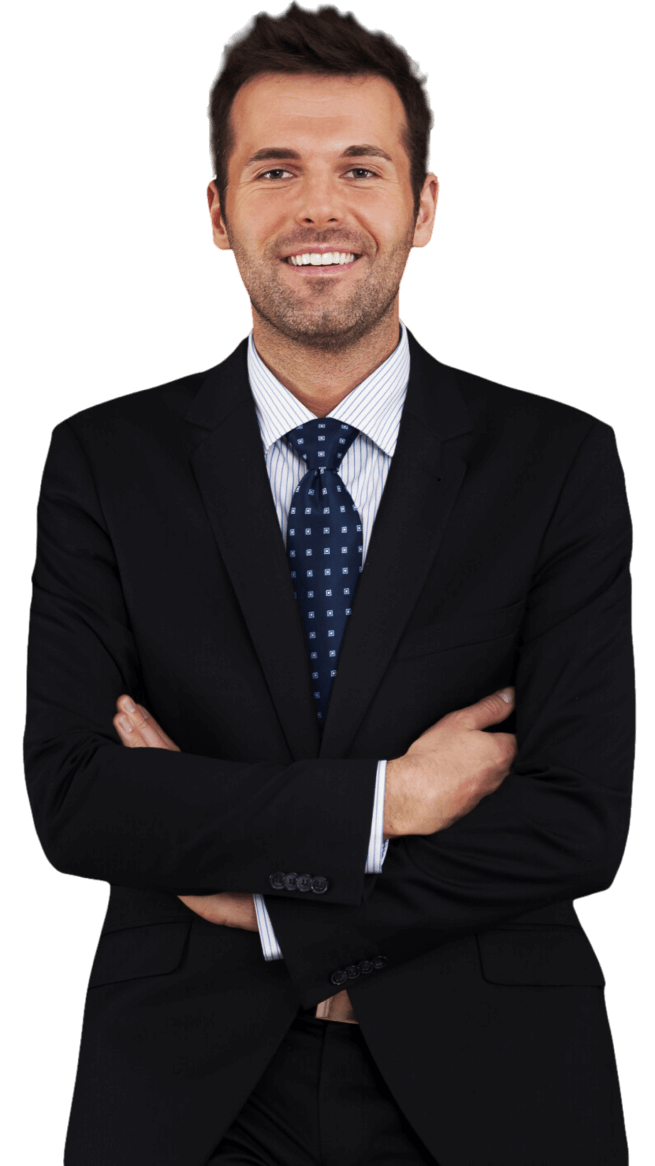
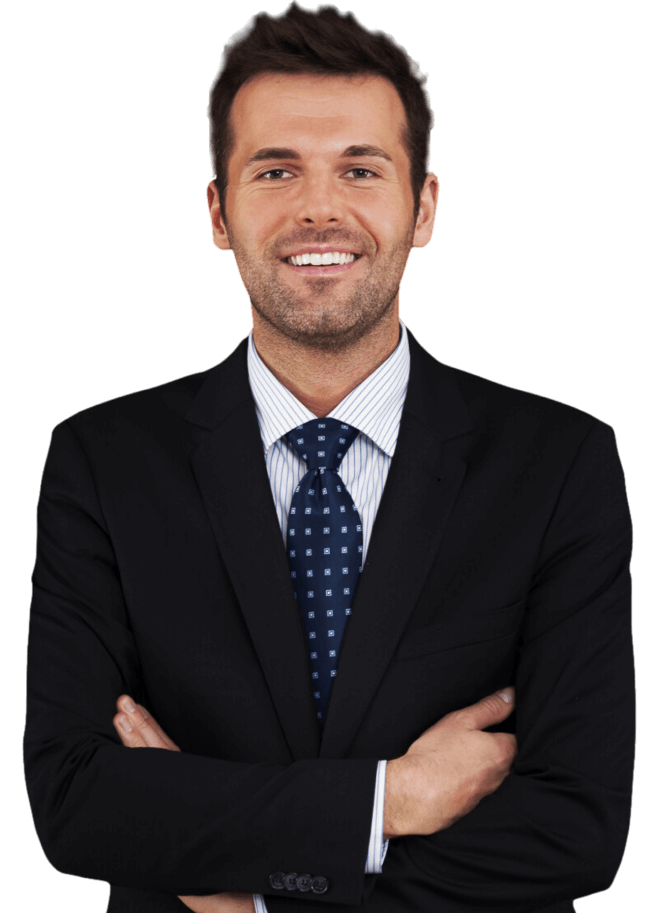
fix: Ajusta secao evite acidentes sem content

diff --git a/src/components/sections/CtaWhatsapp.jsx b/src/components/sections/CtaWhatsapp.jsx
@@ -11,7 +11,7 @@ const whatsappContactLink = `https://wa.me/` + `${whatsappNumber}`;
 export default function CtaWhatsapp() {
   return (
     <div
-      className="full mt-12 phone1:mt-[15%] phone2:mt-[20%] phone3:mt-[20%] bg-center bg-cover tablet1:mt-28 content"
+      className="mt-12 phone1:mt-[15%] phone2:mt-[20%] phone3:mt-[20%] bg-center bg-cover tablet1:mt-28"
       style={{
         backgroundImage: `url(${imgBackground})`,
         backgroundRepeat: "no-repeat",
@@ -21,9 +21,9 @@ export default function CtaWhatsapp() {
       id="contact"
     >
       <SectionContent>
-        <div className="w-full">
-          <div className="flex flex-row items-center justify-between h-28 phone1:h-40 phone3:h-48 desktop1:h-60">
-            <div className="flex flex-col w-full justify-evenly items-left h-28 phone1:h-40 phone3:h-48 desktop1:h-52">
+        <div className="flex justify-center w-full">
+          <div className="w-[88%] max-w-[1110px] flex flex-row items-end justify-between h-28 phone1:h-40 phone3:h-48 desktop1:h-60">
+            <div className="flex flex-col w-full  justify-evenly items-left h-28 phone1:h-40 phone3:h-48 desktop1:h-52 desktop1:mb-[24px]">
               <h1 className="text-left text-white text-paragraph1 phone1:text-paragraph4 phone3:text-paragraph5 max-w-32 phone3:max-w-none font-poppins tablet1:text-title2 tablet2:text-title4 desktop1:text-title5 desktop2:text-title6">
                 <MotionDivUpToDown>
                   Contate-nos através do <strong>Whatsapp</strong>
@@ -49,9 +49,8 @@ export default function CtaWhatsapp() {
                 </div>
               </MotionDivDownToUp>
             </div>
-
-            <div className="w-[90%] max-w-40 phone1:w-[100%] phone1:max-w-none phone3:max-w-60 tablet1:w-[45%]">
-              <img className="" alt="Foto Edilson" src={imgCta} />
+            <div className=" w-[90%] max-w-40 phone1:w-[100%] phone1:max-w-none phone3:max-w-60 tablet1:w-[45%]">
+              <img className="" alt="Foto Pessoa" src={imgCta} />
             </div>
           </div>
         </div>
